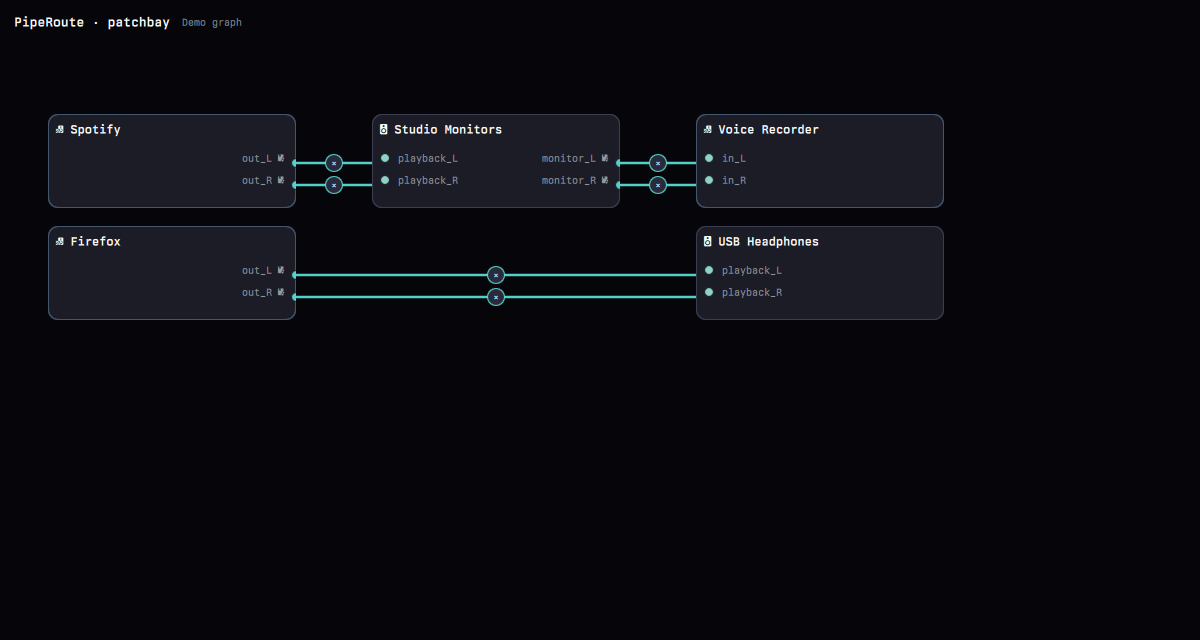
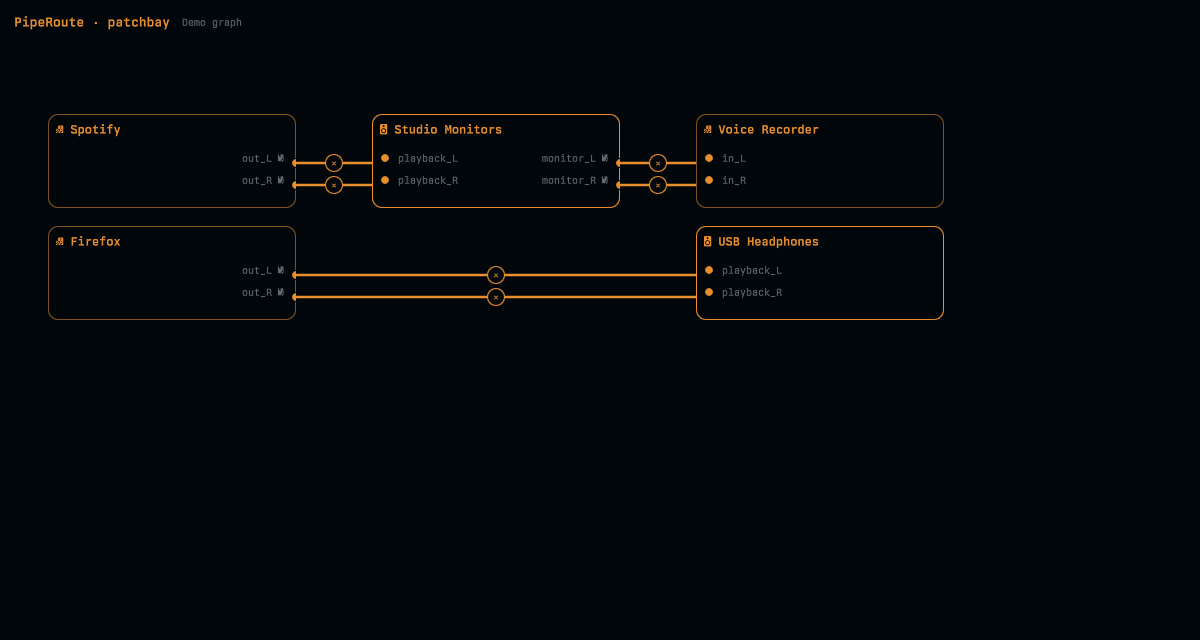
PipeRoute: drive the canvas from Omarchy theme tokens
Replace the fixed dark/teal palette with Color.background, foreground,
accent, muted and popups.* roles so the patchbay follows every theme and
the light/dark switch. Regenerate the fictional preview with the current
theme.

Changed region(s): [[0.0308, 0.1562, 0.8017, 0.5], [0.0, 0.0312, 0.2158, 0.0625]]

diff --git a/GraphCanvas.qml b/GraphCanvas.qml
@@ -27,13 +27,18 @@ PanelWindow {
   signal actionRequested(string action, var args)
   signal refreshRequested()
 
-  readonly property color onScrim: "white"
-  readonly property color onScrimDim: Qt.rgba(1, 1, 1, 0.55)
+  // Semantic theme roles, so the patchbay follows every Omarchy theme and the
+  // light/dark switch without a second palette. `background` is the scrim,
+  // `popups.*` is the node surface, `accent` is the cabling and `muted` is
+  // secondary text.
+  readonly property color onScrim: Commons.Color.foreground
+  readonly property color onScrimDim: Commons.Color.muted
+  readonly property color boxFill: Commons.Color.popups.background
+  readonly property color boxBorder: Commons.Color.popups.border
+  readonly property color cable: Commons.Color.accent
+  readonly property color errorColor: Commons.Color.urgent
   // Near-opaque by default so the tool reads cleanly over any wallpaper.
   property real scrimOpacity: 0.96
-  readonly property color boxFill: "#1b1c26"
-  readonly property color boxBorder: "#3b3d52"
-  readonly property color cable: Qt.rgba(0.35, 0.85, 0.82, 0.95)
 
   readonly property int nodeWidth: 248
   readonly property int headerHeight: 30
@@ -243,7 +248,7 @@ PanelWindow {
 
   Rectangle {
     anchors.fill: parent
-    color: Qt.rgba(0.02, 0.02, 0.04, win.scrimOpacity)
+    color: Util.alpha(Commons.Color.background, win.scrimOpacity)
     MouseArea { anchors.fill: parent; onClicked: win.closeRequested() }
   }
 
@@ -294,7 +299,7 @@ PanelWindow {
         anchors.verticalCenter: parent.verticalCenter
         textFormat: Text.PlainText
         text: win.statusText + (win.errorText ? "  ·  " + win.errorText : "")
-        color: win.errorText ? "#ff8a8a" : win.onScrimDim
+        color: win.errorText ? win.errorColor : win.onScrimDim
         font.family: Style.font.family
         font.pixelSize: Style.font.caption
       }
@@ -376,18 +381,12 @@ PanelWindow {
             radius: 10
             clip: true
             color: win.boxFill
-            border.color: modelData.kind === "stream" ? "#4a6f8a"
-              : modelData.kind === "virtual" ? "#6a5a8a" : win.boxBorder
+            border.color: modelData.kind === "stream"
+              ? Util.alpha(Commons.Color.accent, 0.55)
+              : modelData.kind === "virtual"
+                ? Util.alpha(Commons.Color.accent, 0.8)
+                : win.boxBorder
             border.width: 1
-
-            Rectangle {
-              anchors.fill: parent
-              radius: parent.radius
-              color: "transparent"
-              border.color: win.boxBorder
-              border.width: 1
-              opacity: 0.5
-            }
 
             Text {
               anchors.left: parent.left
@@ -415,8 +414,8 @@ PanelWindow {
                 Rectangle {
                   width: 10; height: 10; radius: 5
                   anchors.verticalCenter: parent.verticalCenter
-                  color: "#8fd1c9"
-                  border.color: "#1d2a2a"
+                  color: win.cable
+                  border.color: win.boxFill
                   border.width: 1
                   x: -12
                 }
@@ -460,7 +459,7 @@ PanelWindow {
                 y: win.portTop + index * win.portStep + win.portStep / 2 - 5
                 width: 10; height: 10; radius: 5
                 color: win.cable
-                border.color: "#18302f"
+                border.color: win.boxFill
                 border.width: 1
               }
             }
@@ -478,7 +477,7 @@ PanelWindow {
             z: 3
             Rectangle {
               width: 18; height: 18; radius: 9
-              color: "#2a2b3a"
+              color: win.boxFill
               border.color: win.cable
               border.width: 1
               Text {
